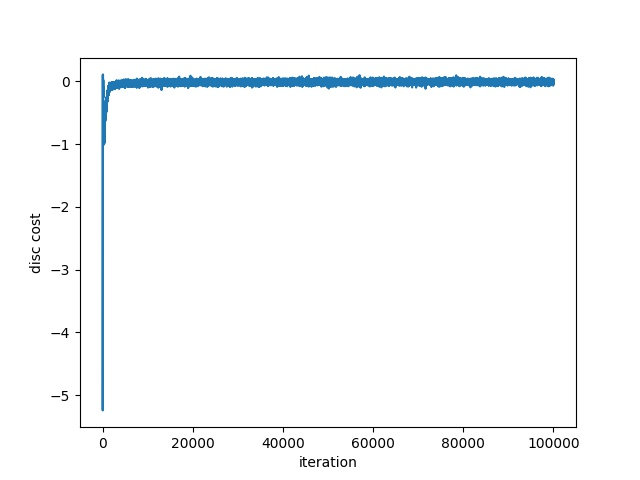
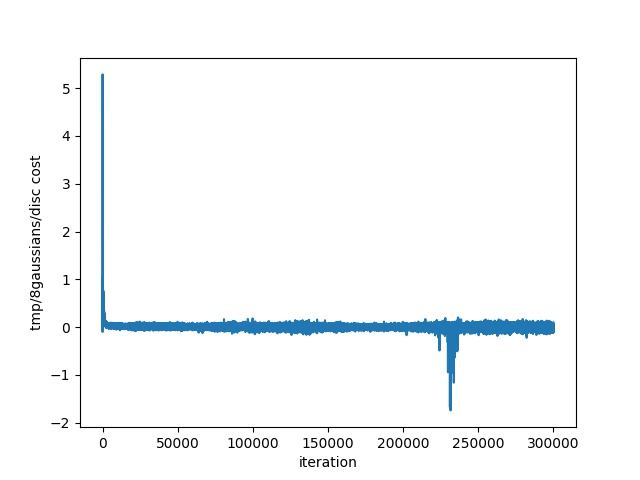
Fix ReadME.md and result

diff --git a/results/toy/README.md b/results/toy/README.md
@@ -1,19 +1,57 @@
 # Toy Dataset
 
+[TOC]
+
 ## **8gaussians** Dataset Training 
 
-1. Learning distribution and Discriminator Decision Boundaries
+- orange is the **real data**
+- green is the **generated data**
+- Total Iterations : **300000** generator iters
 
-   - orange is the real data
-   - green is the fake data
-   - Iterations : 99799 generator iters
+### Discriminator Objective Function Curve
 
-   ![8gaussians_99799](../../imgs/8gaussians_99799.jpg)
+![8gaussians_disc_cost](../../imgs/8gaussians_disc_cost.jpg)
 
-2. Discriminator Objective Function Curve
+### Generator Objective Function Curve
 
-   ![8gaussians_disc_cost](../../imgs/8gaussians_disc_cost.jpg)
+![8gaussians_gen_cost](../../imgs/8gaussians_gen_cost.jpg)
 
-3. Generator Objective Function Curve
+### A Gif for first 30000 iterations
 
-   ![8gaussians_gen_cost](../../imgs/8gaussians_gen_cost.jpg)
+![8gaussians](../../imgs/8gaussians.gif)
+
+## **25gaussians** Dataset Training
+
+- orange is the **real data**
+- green is the **generated data**
+- Total Iterations : **300000** generator iters
+
+### Discriminator Objective Function Curve
+
+![8gaussians_disc_cost](../../imgs/25gaussians_disc_cost.jpg)
+
+### Generator Objective Function Curve
+
+![8gaussians_gen_cost](../../imgs/25gaussians_gen_cost.jpg)
+
+### A Gif for first 30000 iterations
+
+![8gaussians](../../imgs/25gaussians.gif)
+
+## **Swissroll** Dataset Training
+
+- orange is the **real data**
+- green is the **generated data**
+- Total Iterations : **300000** generator iters
+
+### Discriminator Objective Function Curve
+
+![8gaussians_disc_cost](../../imgs/swissroll_disc_cost.jpg)
+
+### Generator Objective Function Curve
+
+![8gaussians_gen_cost](../../imgs/swissroll_gen_cost.jpg)
+
+### A Gif for first 30000 iterations
+
+![8gaussians](../../imgs/swissroll.gif)

diff --git a/README.md b/README.md
@@ -17,7 +17,24 @@ A recent NVIDIA GPU
 # Results
 
 - [Toy Dataset](results/toy/)
-- …...
+
+  Some Sample Result, you can refer to the [results/toy/](results/toy/) folder for **details**.
+
+  - **8gaussians 154500 iteration**
+
+  ![frame1612](imgs/8gaussians_frame1545.jpg)
+
+  - **25gaussians 48500 iteration**
+
+    ![frame485](imgs/25gaussians_frame485.jpg)
+
+  - **swissroll 69400 iteration**
+
+  ![frame694](imgs/swissroll_frame694.jpg)
+
+  
+
+  
 
 # Acknowledge
 
